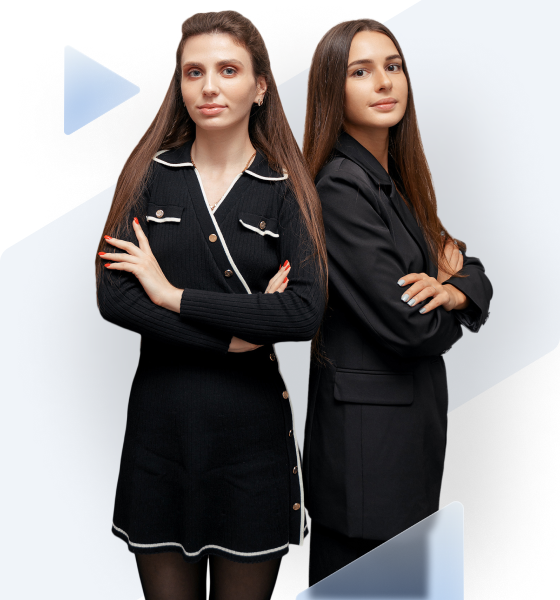
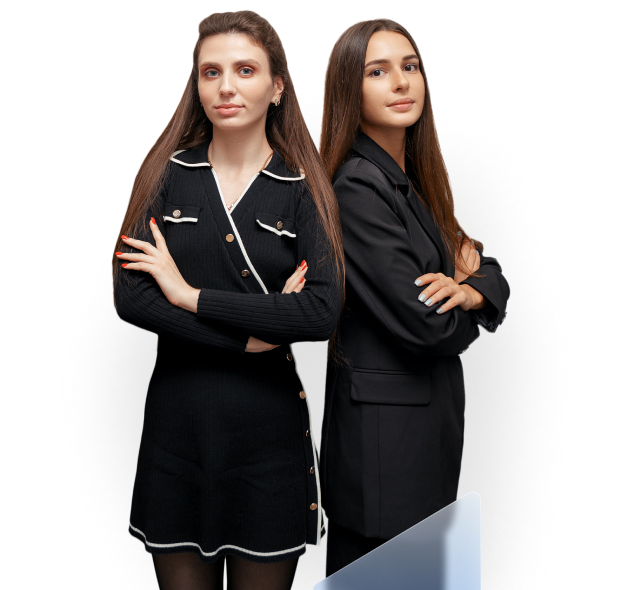
feat: triangle.hero.landing.bg

diff --git a/src/app/shared/ui-kit/sidebar/sidebar.component.html b/src/app/shared/ui-kit/sidebar/sidebar.component.html
@@ -5,6 +5,28 @@
 	<div class="body flex_grow flex flex_column full-height">
 		<mib-spacing type="xs"></mib-spacing>
 		<div class="flex flex_column">
+			<!-- <div class="drop-wrap">
+				<div [mibDropdownTrigger]="userPanel" class="flex">
+					<p>halo</p>
+				</div>
+				<mib-dropdown #userPanel>
+					<mib-spacing dropdown-spacing type="s"></mib-spacing>
+					<mib-dropdown-point (press)="logout()" text="Сменить аккаунт">
+						<mib-icon
+							dropdown-point-left-icon
+							class="stroke"
+							name="fi_refresh-ccw"
+						></mib-icon>
+					</mib-dropdown-point>
+					<mib-dropdown-point (press)="logout()" text="Выйти">
+						<mib-icon
+							dropdown-point-left-icon
+							class="stroke"
+							name="fi_log-out"
+						></mib-icon>
+					</mib-dropdown-point>
+				</mib-dropdown>
+			</div> -->
 			<ng-container
 				*ngFor="
 					let items of isAdmin ? menuAdmin : isVerify ? menuUser : menuVerify

diff --git a/src/app/shared/ui-kit/sidebar/sidebar.module.ts b/src/app/shared/ui-kit/sidebar/sidebar.module.ts
@@ -6,6 +6,7 @@ import {RouterLink} from '@angular/router'
 import {SpacingModule} from '../spacing/spacing.module'
 import {MenuPointModule} from '../menu-point/menu-point.module'
 import {DropdownPointModule} from '../dropdown-point/dropdown-point.module'
+// import {DropdownModule} from '../dropdown/dropdown.module'
 
 @NgModule({
 	declarations: [SidebarComponent],
@@ -16,6 +17,7 @@ import {DropdownPointModule} from '../dropdown-point/dropdown-point.module'
 		SpacingModule,
 		MenuPointModule,
 		DropdownPointModule
+		// DropdownModule
 	],
 	exports: [SidebarComponent]
 })

diff --git a/src/app/public/pages/landing/landing.component.scss b/src/app/public/pages/landing/landing.component.scss
@@ -2,17 +2,18 @@
 @import 'src/styles/_colors.vars';
 
 .hero {
-	background: linear-gradient(
-		135deg,
-		rgba(240, 245, 246, 0.4) 0%,
-		rgb(232 240 249) 100%
-	);
+	background-image: linear-gradient(
+			135deg,
+			rgba(240, 245, 246, 0.4) 0%,
+			rgb(232 240 249) 100%
+		),
+		url('/assets/images/staff/triangle-bg.png');
 
 	& .lineal {
 		background-color: var(--wgr-primary);
 	}
 	& img {
-		height: 600px;
+		height: 590px;
 		object-fit: none;
 
 		@media (max-width: 992px) {

diff --git a/src/app/public/pages/landing/landing.component.html b/src/app/public/pages/landing/landing.component.html
@@ -23,7 +23,7 @@
 			</div>
 		</div>
 		<div class="img-wrap flex flex_grow">
-			<img src="./assets/images/staff/mib-staff-1.png" alt="staff" />
+			<img src="./assets/images/staff/mib-staff.png" alt="staff" />
 		</div>
 	</div>
 	<div class="flex gap-16 flex_column mobile-btn">
